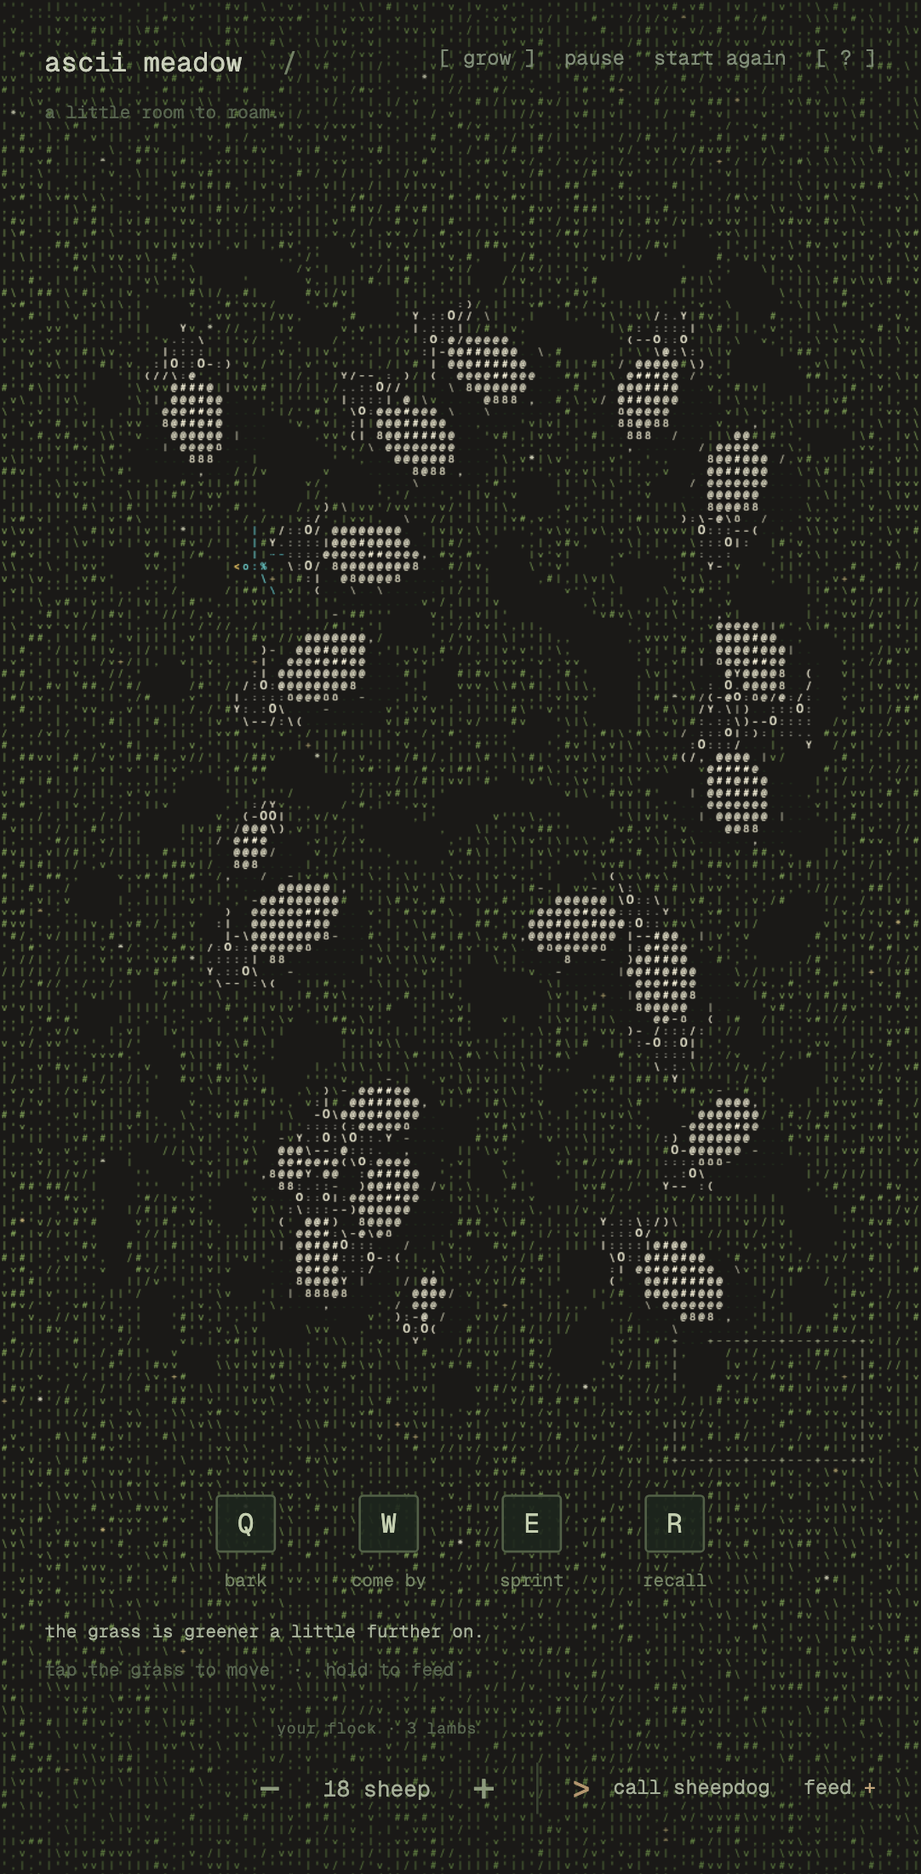
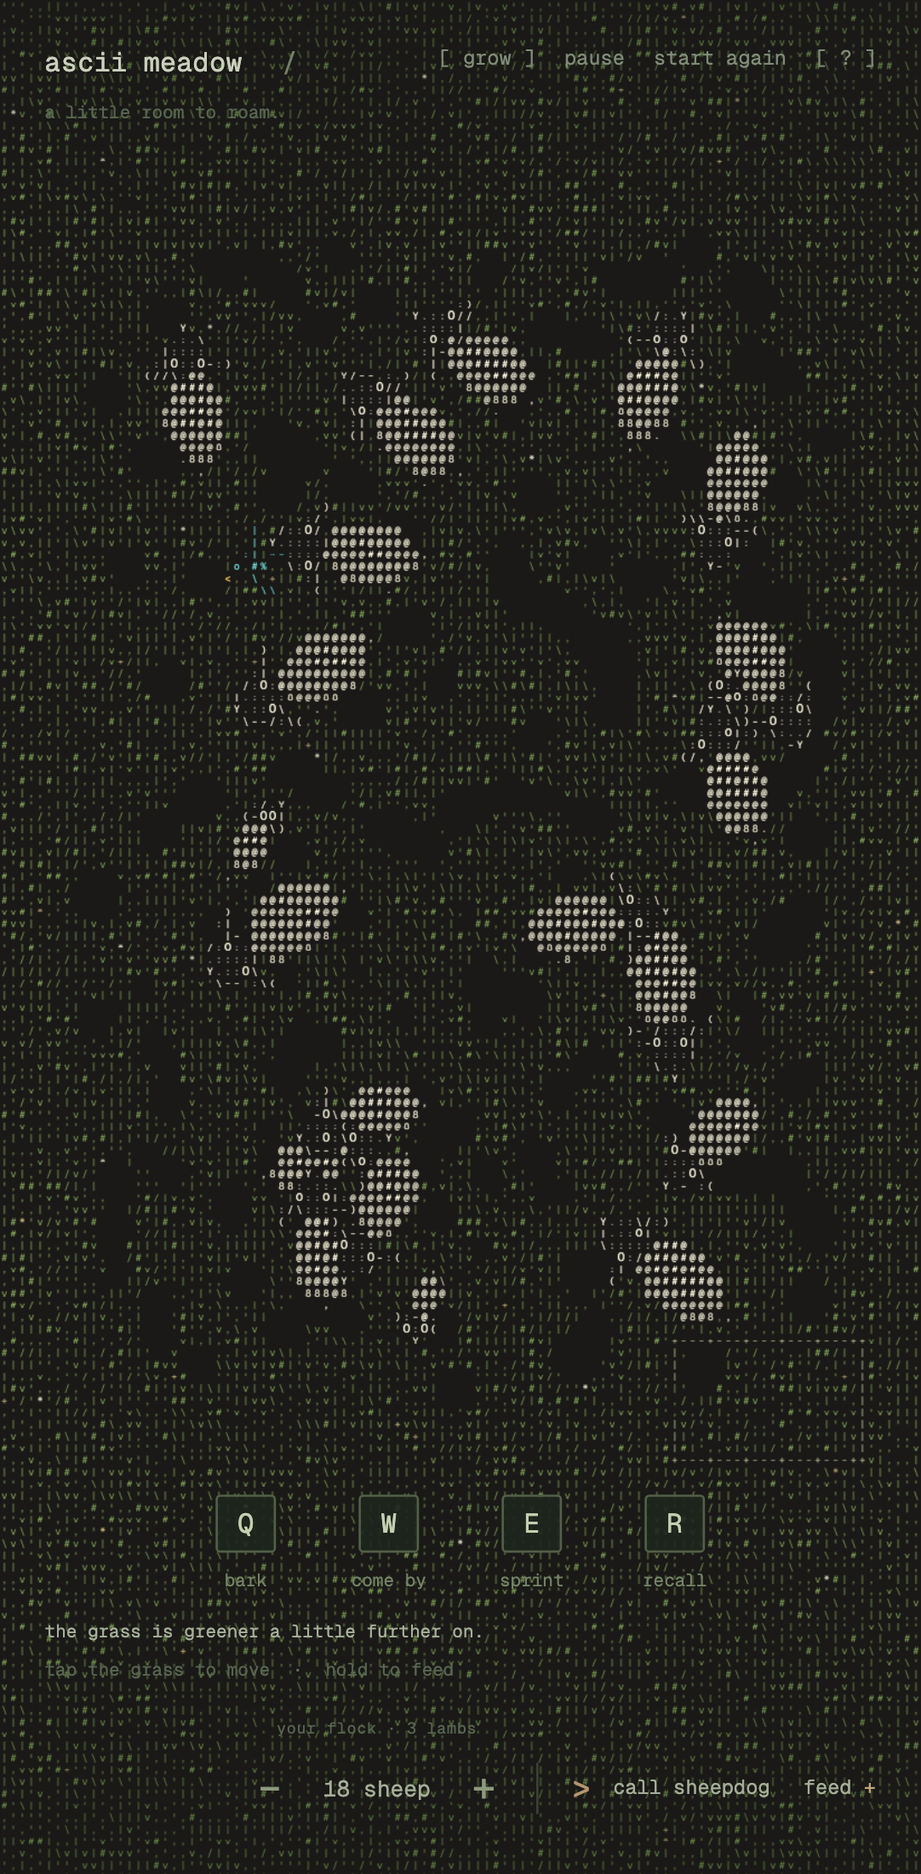
Remove animal ground shadows and tuck paws beneath their coats

diff --git a/src/engine/Renderer.ts b/src/engine/Renderer.ts
@@ -61,13 +61,6 @@ export class Renderer {
     this.codes[i] = Math.max(0, GLYPHS.indexOf(glyph)); this.levels[i] = clamp(Math.round(level * 31), 0, 31);
     this.family[i] = family;
   }
-  private shadow(x: number, y: number, rx: number, ry: number) {
-    const p = this.world.pasture;
-    for (let r = Math.floor((y - ry) / p.cellH); r <= Math.ceil((y + ry) / p.cellH); r++) for (let c = Math.floor((x - rx) / p.cellW); c <= Math.ceil((x + rx) / p.cellW); c++) {
-      const px = (c + 0.5) * p.cellW, py = (r + 0.5) * p.cellH;
-      if (((px - x) / rx) ** 2 + ((py - y) / ry) ** 2 < 1) this.put(px, py, '.', 0.1, 6);
-    }
-  }
   cellAt(x: number, y: number) {
     const i = this.world.pasture.index(x, y);
     return { glyph: GLYPHS[this.codes[i]], priority: this.priority[i], tile: 0, family: this.family[i], level: this.levels[i] };
@@ -76,11 +69,15 @@ export class Renderer {
     const w = this.world, p = w.pasture, scale = w.scale * s.size;
     const heading = s.heading + (s.state === 'grazing' ? Math.sin(w.time * 2 + s.phase) * 0.06 : 0);
     const dx = Math.cos(heading), dy = Math.sin(heading), sx = -dy, sy = dx;
-    const rx = 25.5 * scale, ry = 17.5 * scale, stride = Math.hypot(s.vx, s.vy) > 4 ? Math.sin(w.time * 11 + s.phase) * 4 : 0;
+    const rx = 25.5 * scale, ry = 17.5 * scale, stride = Math.hypot(s.vx, s.vy) > 4 ? Math.sin(w.time * 11 + s.phase) * 2.1 * scale : 0;
     if (!headsOnly) {
     for (const front of [-1, 1]) for (const side of [-1, 1]) {
-      const f = front * rx * 0.52 + stride * front * side, lateral = side * (ry + 3);
-      this.put(s.x + dx * f + sx * lateral, s.y + dy * f + sy * lateral, lineGlyph(dx + sx * 0.5, dy + sy * 0.5), 0.45, 2);
+      const f = front * rx * (0.47 + Math.abs(dy) * 0.1), kick = stride * front * side;
+      const hipX = s.x + dx * f + sx * side * ry * 0.45, hipY = s.y + dy * f + sy * side * ry * 0.45;
+      const footX = s.x + dx * (f + kick) + sx * side * ry * 0.65;
+      const footY = s.y + dy * (f + kick) + sy * side * ry * 0.65 + 5 * scale;
+      this.stroke(hipX, hipY, footX, footY, 0.48, 2);
+      this.put(footX, footY, '.', 0.65, 3);
     }
     const radius = rx + 4;
     for (let r = Math.floor((s.y - radius) / p.cellH); r <= Math.ceil((s.y + radius) / p.cellH); r++) for (let c = Math.floor((s.x - radius) / p.cellW); c <= Math.ceil((s.x + radius) / p.cellW); c++) {
@@ -134,14 +131,14 @@ export class Renderer {
     if (!d) return;
     const p = w.pasture, scale = w.scale, dx = Math.cos(d.heading), dy = Math.sin(d.heading), sx = -dy, sy = dx;
     const rx = 22 * scale, ry = 11.5 * scale, speed = Math.hypot(d.vx, d.vy);
-    this.shadow(d.x + 4, d.y + 6, rx + 9, ry + 7);
+    // Draw short legs first, so the coat covers their roots and only paws peek below.
     for (const front of [-1, 1]) for (const side of [-1, 1]) {
       const stride = Math.sin(w.time * (d.sprint > 0 || d.launching ? 25 : 18) + (front === side ? 0 : Math.PI));
-      const f = front * 13 * scale, kick = speed > 3 ? stride * 4.5 * scale : 0;
-      const hipX = d.x + dx * f + sx * side * 8 * scale, hipY = d.y + dy * f + sy * side * 8 * scale;
-      const kneeX = d.x + dx * (f + kick * 0.45) + sx * side * 12.5 * scale, kneeY = d.y + dy * (f + kick * 0.45) + sy * side * 12.5 * scale;
-      const footX = d.x + dx * (f + kick) + sx * side * 15 * scale, footY = d.y + dy * (f + kick) + sy * side * 15 * scale;
-      this.stroke(hipX, hipY, kneeX, kneeY, 0.75, 4); this.stroke(kneeX, kneeY, footX, footY, 0.65, 4);
+      const f = front * (12 + Math.abs(dy) * 4) * scale, kick = speed > 3 ? stride * 2.6 * scale : 0;
+      const hipX = d.x + dx * f + sx * side * 6 * scale, hipY = d.y + dy * f + sy * side * 6 * scale;
+      const kneeX = d.x + dx * (f + kick * 0.45) + sx * side * 7 * scale, kneeY = d.y + dy * (f + kick * 0.45) + sy * side * 7 * scale + 2.5 * scale;
+      const footX = d.x + dx * (f + kick) + sx * side * 8.5 * scale, footY = d.y + dy * (f + kick) + sy * side * 8.5 * scale + 5 * scale;
+      this.stroke(hipX, hipY, kneeX, kneeY, 0.65, 4); this.stroke(kneeX, kneeY, footX, footY, 0.6, 4);
       this.put(footX, footY, '.', 0.55, 3);
     }
     for (let r = Math.floor((d.y - rx) / p.cellH); r <= Math.ceil((d.y + rx) / p.cellH); r++) for (let c = Math.floor((d.x - rx) / p.cellW); c <= Math.ceil((d.x + rx) / p.cellW); c++) {
@@ -184,7 +181,6 @@ export class Renderer {
     const family = 9 + b.color, priority = flying ? 5 : 1;
     const dot = (along: number, side: number, glyph: string, level = 0.9, ink = family) => this.put(x + (dx * along + sx * side) * scale, y + (dy * along + sy * side) * scale, glyph, level, ink, priority);
     if (!flying) {
-      this.shadow(x + 2, y + 4, 12 * scale, 7 * scale);
       dot(-2, -6, '.', 0.8, 5); dot(-2, 6, '.', 0.8, 5);
     }
     dot(-5, 0, '%'); dot(0, 0, '#'); dot(1, -4, ':', 0.7); dot(1, 4, ':', 0.7);
@@ -257,7 +253,6 @@ export class Renderer {
       const remaining = clamp(grass / Math.max(0.1, p.capacity[i]), 0, 1);
       const ink = grassAppearance(remaining, texture, wind);
       let { glyph, family, level } = ink;
-      if (p.trampled[i] > 0.3 && remaining > 0.9) glyph = texture > 0.5 ? '/' : '\\';
       if (p.flower[i] >= 0 && remaining > 0.95) { glyph = p.flower[i] > 0.5 ? '*' : '+'; family = p.flower[i] > 0.7 ? 3 : 5; level = 0.45 + texture * 0.25; }
       const edge = Math.min(c * cw, w.width - c * cw, r * ch, w.height - r * ch);
       // Dense meadow at the edges, quiet breathing room for the controls.
@@ -284,10 +279,9 @@ export class Renderer {
     this.pen();
     for (const b of w.birds) if (b.state === 'landed') this.bird(b);
     const animals = w.animals;
-    for (const s of animals) this.shadow(s.x + 4, s.y + 7, 25.5 * w.scale * s.size + 8, 17.5 * w.scale * s.size + 5);
     for (const s of animals) this.sheep(s);
     this.dog();
-    // Faces and ears always survive another animal's wool or shadow.
+    // Faces and ears always survive another animal's wool.
     for (const s of animals) this.sheep(s, true);
     this.sleep();
     for (const b of w.birds) if (b.state !== 'landed') this.bird(b);

diff --git a/e2e/meadow.spec.ts b/e2e/meadow.spec.ts
@@ -265,7 +265,7 @@ test('incremental glyph painting leaves no movement trails', async ({ page }) =>
 });
 
 
-test('regrowth gains characters and color gradually, and running dogs have visible feet and tails', async ({ page }, info) => {
+test('regrowth gains characters and color gradually, and running dogs have tucked paws and visible tails', async ({ page }, info) => {
   const result = await page.evaluate(() => {
     const app = (window as any).__meadow, w = app.world, p = w.pasture; w.paused = true; w.sheep.length = 0; w.lambs.length = 0;
     const amounts = [0, 0.1, 0.3, 0.55, 0.8, 1]; p.flower.fill(-1); p.trampled.fill(0);
@@ -279,14 +279,14 @@ test('regrowth gains characters and color gradually, and running dogs have visib
       const px = (c + 0.5) * p.cellW, py = (r + 0.5) * p.cellH, cell = app.renderer.cellAt(px, py);
       if (![3, 4].includes(cell.family)) continue;
       if (px < x - 23 * w.scale && px > x - 47 * w.scale && Math.abs(py - y) < 16 * w.scale) tail++;
-      if (Math.abs(px - x) < 26 * w.scale && Math.abs(py - y) > 12 * w.scale && Math.abs(py - y) < 26 * w.scale) feet++;
+      if (Math.abs(px - x) < 20 * w.scale && py - y > 9 * w.scale && py - y < 19 * w.scale && ((px - x) / (22 * w.scale)) ** 2 + ((py - y) / (11.5 * w.scale)) ** 2 > 1 && !['[', ']'].includes(cell.glyph)) feet++;
     }
     return { stages, tail, feet };
   });
   expect(result.stages[0].glyph).toBe(' '); expect(result.stages[1].glyph).toBe('.');
   expect(result.stages[2].family).toBe(6); expect(result.stages[3].family).toBe(0);
   expect(result.stages[5].level).toBeGreaterThan(result.stages[3].level);
-  expect(result.tail).toBeGreaterThan(3); expect(result.feet).toBeGreaterThan(2); expect(result.feet).toBeLessThan(16);
+  expect(result.tail).toBeGreaterThan(3); expect(result.feet).toBeGreaterThan(0); expect(result.feet).toBeLessThan(8);
   await page.screenshot({ path: `docs/${info.project.name}-regrowth.png` });
 });
 

diff --git a/src/simulation/World.ts b/src/simulation/World.ts
@@ -296,7 +296,6 @@ export class World {
     }
     d.idleTime = d.arrived && !d.orbit && d.sprint <= 0 ? d.idleTime + dt : 0;
     d.sleeping = d.idleTime >= 7;
-    if (speed > 1) this.pasture.tread(d.x, d.y, dt * 0.8, 25 * this.scale);
   }
   step(dt: number) {
     if (this.paused) return;
@@ -398,7 +397,6 @@ export class World {
       if (v > cap) { s.vx *= cap / v; s.vy *= cap / v; }
       Object.assign(s, this.clampPoint(s.x + s.vx * dt, s.y + s.vy * dt));
       if (v > 2) s.heading = angleDelta(0, s.heading + clamp(angleDelta(s.heading, Math.atan2(s.vy, s.vx)), -dt * 1.7, dt * 1.7));
-      this.pasture.tread(s.x, s.y, dt * (v > 3 ? 0.32 : 0.04), 19 * scale * s.size);
     }
     this.resolveOverlaps(dt, animals);
     this.birdLife.step(dt, this.width, this.height, this.pasture, animals, dog?.atHome ? null : dog, this.barks);

diff --git a/docs/VALIDATION.md b/docs/VALIDATION.md
@@ -14,12 +14,14 @@ Verified on November 12, 2026.
 
 Simulation checks cover local grass consumption, regrowth, tread recovery, grazing movement, greener-patch seeking, food attraction and consumption, food lifetime/cap, commanded movement and arrival, dog repulsion, gentle sleeping-dog avoidance and larger chase radius, an initially full edible map, local brush restoration, persistent cropped state through resizing, ordered recovery with 105–114 second delays and continuous growth, one-third smaller character cells, loose local companions with retained spacing, fresh-patch preference over company, limited nearby bark escape, immediate recasts without cooldowns, sheep speed limits and faster dog movement, a complete rounded outside lap including edge strays and a snug diagonal-flock route, command cancellation, recall and cursor launch, idle sleeping with preserved heading, predictive dog avoidance, wider personal space and stronger overlap correction, empty/maximum sheep counts, pause, resizing an active orbit, and a minute of bounded herding with 36 sheep.
 
-Browser checks cover visible grass and sheep, canvas coverage, left-click movement, Q/E shortcuts, traveling bark rings, immediate recasts, whole-flock W coverage, R recall and cursor launch, right-click food without dog redirection, feeding by F and button, adding/removing sheep, persistence, calling and recalling/releasing the dog, help, pause, reset, hidden UI, resize, reduced motion, touch commands and ability buttons, long-press feeding, and scroll prevention. Head priority was checked with deliberately overlapping sheep. Fresh light green and much darker grazed glyphs were checked separately. Pixel checks verify Pond’s exact charcoal background ([26, 25, 23]), bare ground followed by dots, shoots, blades and mature green glyphs, and no brown flecks. Higher-priority O eyes remain visible over overlapping wool. Space brush checks verify continuous hover strokes, isolated changes, toggle-off behavior and painting while paused. P pauses independently. Idle dogs were advanced to sleep, and their actual z/Z glyph cells were verified. Temporary status copy was checked for overlap with the ability bar. A 90-second simulation verifies visible crop marks without collapse into a single flock. Compact dog feet and tail glyphs are checked outside the body silhouette. The bark ripple is visible at age zero outside the dog’s silhouette, remains a single thin, broken, muted ring, crosses the field in 0.55 seconds and disappears by 0.67 seconds. Browser checks verify its immediate ink, narrow moving band and complete disappearance on desktop and mobile. Simulation checks verify that sheep stay calm before contact, nearby sheep react before farther sheep, the wave keeps its original position when the dog moves, each sheep is nudged once per wave, recasts are independent, and escape distance remains about two body lengths. Birds use the same contact timing. Navigation checks cover a joined cluster, an occupied destination, sprint-speed collision sweeps, and a dog detouring around a fixed sheep with closer clearance. New cases verify that a sprint stays on one side of a moving sheep, passes through a narrow two-sheep gap, and reaches an occupied target through last-resort overlap. Come By exceeds 180 px/s and measurably reduces flock spread compared with ordinary grazing. Incremental rendering was compared byte-for-byte to a clean full repaint after moving sheep, a dog and bark rings, with no differences. Turn regression checks cover quarter-turns after positive and negative accumulated laps, the actual dog turn across the wrap boundary, and normalization of its heading. Grazing checks verify a full mouth-sized bare patch remains visible after a minute.
+Browser checks cover visible grass and sheep, canvas coverage, left-click movement, Q/E shortcuts, traveling bark rings, immediate recasts, whole-flock W coverage, R recall and cursor launch, right-click food without dog redirection, feeding by F and button, adding/removing sheep, persistence, calling and recalling/releasing the dog, help, pause, reset, hidden UI, resize, reduced motion, touch commands and ability buttons, long-press feeding, and scroll prevention. Head priority was checked with deliberately overlapping sheep. Fresh light green and much darker grazed glyphs were checked separately. Pixel checks verify Pond’s exact charcoal background ([26, 25, 23]), bare ground followed by dots, shoots, blades and mature green glyphs, and no brown flecks. Higher-priority O eyes remain visible over overlapping wool. Space brush checks verify continuous hover strokes, isolated changes, toggle-off behavior and painting while paused. P pauses independently. Idle dogs were advanced to sleep, and their actual z/Z glyph cells were verified. Temporary status copy was checked for overlap with the ability bar. A 90-second simulation verifies visible crop marks without collapse into a single flock. Compact dog paw tips are checked immediately below the coat, excluding the selection brackets, and tail glyphs are checked beyond the rear of the body. The bark ripple is visible at age zero outside the dog’s silhouette, remains a single thin, broken, muted ring, crosses the field in 0.55 seconds and disappears by 0.67 seconds. Browser checks verify its immediate ink, narrow moving band and complete disappearance on desktop and mobile. Simulation checks verify that sheep stay calm before contact, nearby sheep react before farther sheep, the wave keeps its original position when the dog moves, each sheep is nudged once per wave, recasts are independent, and escape distance remains about two body lengths. Birds use the same contact timing. Navigation checks cover a joined cluster, an occupied destination, sprint-speed collision sweeps, and a dog detouring around a fixed sheep with closer clearance. New cases verify that a sprint stays on one side of a moving sheep, passes through a narrow two-sheep gap, and reaches an occupied target through last-resort overlap. Come By exceeds 180 px/s and measurably reduces flock spread compared with ordinary grazing. Incremental rendering was compared byte-for-byte to a clean full repaint after moving sheep, a dog and bark rings, with no differences. Turn regression checks cover quarter-turns after positive and negative accumulated laps, the actual dog turn across the wrap boundary, and normalization of its heading. Grazing checks verify a full mouth-sized bare patch remains visible after a minute.
 
 New family and visitor checks cover the one-lamb-per-six-adults ratio through add, remove, reset and the 80-adult maximum; half-size lamb silhouettes and valid parent links; catching up with a separated parent; lamb response to the dog and bark; pause and resize. Bird checks cover arrival, landing, resting, departure, population limits, and early takeoff for a dog or bark. Desktop and mobile rendering checks verify two uppercase O eyes, two ear tips and visible light face cells on entirely cropped ground at all four cardinal headings. The family caption is checked after population changes. Bird glyph colors and an actual landed visitor are verified before family screenshots are captured. Grazing and growth checks now use the slower consumption and recovery rates.
 
+Animal ground shadows and automatic trampling marks have been removed. Dog, sheep and lamb legs are drawn beneath the coat with reduced stride and only short paws projecting downward. The live preview was inspected while the dog moved, and desktop/mobile screenshots show grass continuing up to each animal. A separate rendering inspection at eight headings, on fully grown grass and with retained trampling data, found zero dark ground cells around the animals. A close-up is saved in `paws-detail.png`.
+
 The screenshots in this directory are actual captures of the application, inspected during development. The in-app browser was also used directly to call the dog, issue left-click commands and bark.
 
-Raw frame samples are saved in `performance-desktop.json` and `performance-mobile.json`. The default desktop has 36,450 grass cells and 18 adults plus 3 lambs, with occasional birds. Production JavaScript is approximately 48.5 kB (17.4 kB gzip), with 6.7 kB CSS and a 9.9 kB local font. There are no runtime package dependencies.
+Raw frame samples are saved in `performance-desktop.json` and `performance-mobile.json`. The default desktop has 36,450 grass cells and 18 adults plus 3 lambs, with occasional birds. Production JavaScript is approximately 48.0 kB (17.3 kB gzip), with 6.7 kB CSS and a 9.9 kB local font. There are no runtime package dependencies.
 
 These are samples from this computer, not a hardware-independent FPS guarantee. Mobile checks use Chromium emulation; native Safari and physical touch devices remain unverified. The meadow is a local project and has not been deployed.

diff --git a/README.md b/README.md
@@ -69,10 +69,10 @@ A freshly cropped cell rests for 105–114 seconds, using stable per-cell variat
 
 Each sheep occasionally chooses zero, one or two nearby companions for 24–49 seconds. Their presence gives fresh grazing destinations a small preference, without a shared herd magnet. Sheep compare entire grass patches, travel distance, crowding and dog pressure; good fresh grass outweighs company. This supports loosely changing pairs and trios and independent grazers. They search farther when nearby ground is depleted.
 
-Sheep retain different sizes, speed, courage, wool texture and grazing rhythms. Soft personal space and positional correction reduce piling up while allowing a little wool overlap. Heads and ears keep rendering priority over other bodies. Moving dogs trigger an earlier, predictive response; sleeping dogs keep a gentle local space. Food and bark interrupt ordinary grazing. The dog has short articulated legs, a compact collie face and a wider tail wag. Movement commits to a chosen route for about a second and blends steering, so shifting sheep do not cause left-right zigzags during E. Smaller clearance zones allow the dog to brush wool. It prefers a clear detour, uses a tighter gap when that avoids a wide detour, and permits overlap only when a clear or tight route cannot reach the destination or the dog is stuck. Occupied destinations can be reached without repeatedly bouncing off the sheep. Nearby sheep still anticipate the dog's approach during acceleration. Sheep use wider personal space and three separation passes, with a 50 px minimum center distance for average-size sheep.
+Sheep retain different sizes, speed, courage, wool texture and grazing rhythms. Soft personal space and positional correction reduce piling up while allowing a little wool overlap. Heads and ears keep rendering priority over other bodies. Moving dogs trigger an earlier, predictive response; sleeping dogs keep a gentle local space. Food and bark interrupt ordinary grazing. The dog has short legs tucked under its coat, a compact collie face and a wider tail wag. Sheep and lambs also keep their paws beneath the wool. Only small paw tips peek below the bodies while walking, rather than long legs extending sideways. Animals cast no ground shadows and do not flatten or darken surrounding grass; only grazing changes the pasture. Movement commits to a chosen route for about a second and blends steering, so shifting sheep do not cause left-right zigzags during E. Smaller clearance zones allow the dog to brush wool. It prefers a clear detour, uses a tighter gap when that avoids a wide detour, and permits overlap only when a clear or tight route cannot reach the destination or the dog is stuck. Occupied destinations can be reached without repeatedly bouncing off the sheep. Nearby sheep still anticipate the dog's approach during acceleration. Sheep use wider personal space and three separation passes, with a 50 px minimum center distance for average-size sheep.
 
 
-The field uses ASCII Pond’s exact warm charcoal `#1a1917` (`DARK.page: [26, 25, 23]` in `src/pond.js`): only ASCII characters carry color, with no colored tile backgrounds on terrain or animals. Reinspection of ASCII Pond's `src/koi.js` supplied the exact `t%SX8@#` density ramp, with `#` densest. The bundled Geist Mono font, small character grid, restrained colors and local glyph textures carry its influence forward. The character grid and font are one-third smaller in both dimensions, giving each animal about 2.25 times as many character cells without shrinking its silhouette. Wool uses bright cream density glyphs and little legs. Larger stone-colored faces have cream outlines, longer drooping ears, a woolly forelock, two larger, brighter uppercase `O` eyes, paired nostrils and a split `Y` lip; faces keep priority over overlapping wool. The smaller collie has copper glyphs and a pale chest. The open recall pen uses ASCII rails and posts. No animal images, SVG sprites or emoji are used.
+The field uses ASCII Pond’s exact warm charcoal `#1a1917` (`DARK.page: [26, 25, 23]` in `src/pond.js`): only ASCII characters carry color, with no colored tile backgrounds on terrain or animals. Reinspection of ASCII Pond's `src/koi.js` supplied the exact `t%SX8@#` density ramp, with `#` densest. The bundled Geist Mono font, small character grid, restrained colors and local glyph textures carry its influence forward. The character grid and font are one-third smaller in both dimensions, giving each animal about 2.25 times as many character cells without shrinking its silhouette. Wool uses bright cream density glyphs and small paws tucked beneath the body. Larger stone-colored faces have cream outlines, longer drooping ears, a woolly forelock, two larger, brighter uppercase `O` eyes, paired nostrils and a split `Y` lip; faces keep priority over overlapping wool. The smaller collie has copper glyphs and a pale chest. The open recall pen uses ASCII rails and posts. No animal images, SVG sprites or emoji are used.
 
 ## Little families and visitors
 
@@ -84,7 +84,7 @@ Small turquoise, coral and gold birds occasionally fly into the field, settle on
 
 ```text
 src/
-  simulation/Pasture.ts   retained grass, consumption, regrowth and trampled paths
+  simulation/Pasture.ts   retained grass, consumption and staged regrowth
   simulation/World.ts    adults, lamb families, food, movement and ability clocks
   simulation/Birds.ts    occasional bird visits, landing and takeoff
   simulation/bark.ts     shared wavefront timing for rendering and animal contact
